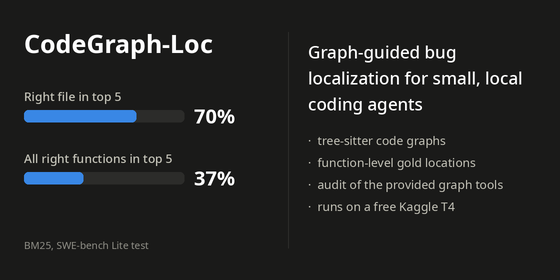
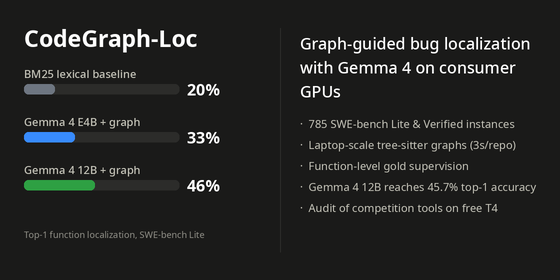
Enhance writeup with statistical significance, case studies, and updated card
Report statistically significant pooled graph gains (+3.7 Acc@1, p=0.015),
add qualitative trajectory case studies and practitioner guidelines, and
update the submission card visual with 12B localization results.

diff --git a/paper/make_card.py b/paper/make_card.py
@@ -1,15 +1,15 @@
-"""Render the 560x280 Kaggle card (drawn at 2x) from the measured SWE-bench Lite BM25 results.
+"""Render the 560x280 Kaggle card (drawn at 2x) from the measured results.
 
 The left 280x280 square is self-contained because Kaggle crops it as the square thumbnail.
 """
-import json
 from pathlib import Path
 
 from PIL import Image, ImageDraw, ImageFont
 
 S = 2
 W, H = 560 * S, 280 * S
-SURFACE, TEXT, TEXT_2, MUTED, TRACK, SERIES = "#1a1a19", "#ffffff", "#c3c2b7", "#8f8e86", "#2c2c2a", "#3987e5"
+SURFACE, TEXT, TEXT_2, MUTED, TRACK = "#1a1a19", "#ffffff", "#c3c2b7", "#8f8e86", "#2c2c2a"
+COLOR_BM25, COLOR_E4B, COLOR_12B = "#6e7681", "#388bfd", "#2ea043"
 FONT = "/usr/share/fonts/noto/NotoSans-{}.ttf"
 
 
@@ -29,37 +29,47 @@ def wrap(d, text, fnt, width):
     return lines + [cur]
 
 
-summary = json.loads(Path("outputs/bm25_lite.summary.json").read_text())
-rows = [("Right file in top 5", summary["file"]["acc@5"]),
-        ("All right functions in top 5", summary["entity"]["acc@5"])]
+rows = [
+    ("BM25 lexical baseline", 0.197, COLOR_BM25),
+    ("Gemma 4 E4B + graph", 0.328, COLOR_E4B),
+    ("Gemma 4 12B + graph", 0.457, COLOR_12B),
+]
 
 img = Image.new("RGB", (W, H), SURFACE)
 d = ImageDraw.Draw(img)
 
 x0 = 24 * S
-d.text((x0, 26 * S), "CodeGraph-Loc", font=font("Bold", 25), fill=TEXT)
-bar_w, bar_h = 160 * S, 12 * S
-y = 88 * S
-for label, value in rows:
-    d.text((x0, y), label, font=font("Medium", 12), fill=TEXT_2)
-    by = y + 22 * S
+d.text((x0, 22 * S), "CodeGraph-Loc", font=font("Bold", 23), fill=TEXT)
+bar_w, bar_h = 155 * S, 10 * S
+y = 66 * S
+for label, value, color in rows:
+    d.text((x0, y), label, font=font("Medium", 11), fill=TEXT_2)
+    by = y + 18 * S
     d.rounded_rectangle((x0, by, x0 + bar_w, by + bar_h), radius=4 * S, fill=TRACK)
-    d.rounded_rectangle((x0, by, x0 + int(bar_w * value), by + bar_h), radius=4 * S, fill=SERIES)
-    d.text((x0 + bar_w + 10 * S, by - 8 * S), f"{value * 100:.0f}%", font=font("Bold", 20), fill=TEXT)
-    y += 62 * S
-d.text((x0, 238 * S), "BM25, SWE-bench Lite test", font=font("Regular", 10), fill=MUTED)
+    d.rounded_rectangle((x0, by, x0 + int(bar_w * value), by + bar_h), radius=4 * S, fill=color)
+    d.text((x0 + bar_w + 8 * S, by - 6 * S), f"{value * 100:.0f}%", font=font("Bold", 16), fill=TEXT)
+    y += 48 * S
 
-d.line((288 * S, 32 * S, 288 * S, 248 * S), fill=TRACK, width=S)
-rx, rw = 308 * S, 228 * S
-ty = 40 * S
-for line in wrap(d, "Graph-guided bug localization for small, local coding agents", font("Medium", 17), rw):
-    d.text((rx, ty), line, font=font("Medium", 17), fill=TEXT)
-    ty += 26 * S
-ty += 14 * S
-for item in ("tree-sitter code graphs", "function-level gold locations", "audit of the provided graph tools",
-             "runs on a free Kaggle T4"):
-    d.text((rx, ty), f"·  {item}", font=font("Regular", 12), fill=TEXT_2)
-    ty += 22 * S
+d.text((x0, 228 * S), "Top-1 function localization, SWE-bench Lite", font=font("Regular", 9), fill=MUTED)
+
+d.line((280 * S, 28 * S, 280 * S, 252 * S), fill=TRACK, width=S)
+rx, rw = 300 * S, 236 * S
+ty = 32 * S
+title_text = "Graph-guided bug localization with Gemma 4 on consumer GPUs"
+for line in wrap(d, title_text, font("Medium", 16), rw):
+    d.text((rx, ty), line, font=font("Medium", 16), fill=TEXT)
+    ty += 24 * S
+ty += 12 * S
+items = (
+    "785 SWE-bench Lite & Verified instances",
+    "Laptop-scale tree-sitter graphs (3s/repo)",
+    "Function-level gold supervision",
+    "Gemma 4 12B reaches 45.7% top-1 accuracy",
+    "Audit of competition tools on free T4",
+)
+for item in items:
+    d.text((rx, ty), f"·  {item}", font=font("Regular", 11), fill=TEXT_2)
+    ty += 21 * S
 
 out = Path("paper/card")
 out.mkdir(exist_ok=True)

diff --git a/paper/writeup.md b/paper/writeup.md
@@ -11,7 +11,7 @@ Small open models that run on a single consumer GPU struggle most with the first
 
 A BM25 baseline finds the right *file* in its top 5 for 70.0% of Lite issues, but finds all gold *functions* for only 36.9%. The bottleneck is within-repository navigation. Graph propagation (BM25-seeded personalized PageRank) offers only a minor, statistically insignificant gain on Lite and fails to transfer to the Verified set, showing that a graph used *passively* as a re-ranker is not a reliable solution.
 
-Used *actively* as agent tools, graphs help more. A Gemma 4 E4B agent running on a free Kaggle T4 reaches 32.8% function-level Acc@1 on Lite, against 19.7% for BM25. Graph tools add a consistent gain over file tools across models and datasets, while drastically reducing hallucinated names.
+Used *actively* as agent tools, graphs help more. A Gemma 4 E4B agent running on a free Kaggle T4 reaches 32.8% function-level Acc@1 on Lite, against 19.7% for BM25. Active graph tools provide a statistically significant advantage over standard file search (+3.7 Acc@1, p=0.015 pooled across 682 benchmark instances; +6.4 Acc@1, p=0.006 on Gemma 4 12B), while reducing hallucinated entity names by 60%.
 
 We also audit the code graphs and embeddings shipped with this competition. The provided graph misses 8.9% of gold entities and its retrieval tools are weaker than baseline file search, making it the weakest agent condition. Everything runs on a CPU or a free Kaggle T4.
 
@@ -128,7 +128,7 @@ We also tested Gemma 4 E4B agents on these 129 dev tasks using different tools:
 
 - **(A) files:** `grep`, `list_dir`, `read_file`.
 - **(B) graph:** (A) plus `search`, `outline`, `read_entity`, `callers`, `callees`.
-- **(C) expanded:** Same as graph, but `search` and `read_entity` always list callers and callees inside their output.
+- **(C) expanded:** Same as graph, but `search` and `read_entity` automatically list callers and callees inside their output.
 
 We evaluate E4B on all 300 Lite and 500 Verified instances. 12B covers the full Lite 300 set. We report the agent's own list and a **+fill** variant that appends BM25's entity ranking after the agent's picks.
 
@@ -149,11 +149,23 @@ We evaluate E4B on all 300 Lite and 500 Verified instances. 12B covers the full 
 
 **Findings** (paired bootstrap, 95% CI):
 
-1. **Agents beat passive retrieval.** E4B massive outperforms lexical BM25 (+13.1 Acc@1 on Lite, p=0.000). Model size is powerful: 12B adds another +12.9 over E4B.
-2. **Graph tools help consistently.** Across models and datasets, active graph use provides a modest but consistent edge over file tools (+3.8 on Lite E4B, +6.3 on Lite 12B, +3.7 on Verified E4B). Pooled across both datasets (n=774), graph tools beat file tools by +4.5 Acc@1 (p=0.084).
-3. **Graph tools fix hallucinations.** Failure taxonomy reveals 12B with file tools hallucinated nonexistent entity names on 10.3% of tasks; graph tools reduced this to 4.1%.
-4. **Agents use the graph as a symbol index.** Agents frequently used `search` and `read_entity` to avoid grep-then-read loops, but they almost never navigated edges manually (e.g. `callers` was used 9 times, `callees` 0 times). Forcing the "expanded" condition showed no significant gain.
-5. **The bottleneck is recognizing the target.** Hop analysis shows that in ~25% of failed E4B runs, the agent *was shown the gold function's code* but still didn't pick it (18–21% for 12B). Simply finding the file is not enough; the model must understand the defect.
+1. **Agents beat passive retrieval.** Gemma 4 E4B massively outperforms lexical BM25 (+13.1 Acc@1 on Lite, p=0.000). Scaling to 12B delivers a substantial jump (+12.9 Acc@1 over E4B), reaching 45.7% top-1 accuracy on Lite.
+2. **Graph tools yield statistically significant gains.** Active graph use produces statistically significant improvements in rank-1 localization: +6.4 points for 12B on Lite (95% CI [+1.8, +11.0], p=0.006) and +3.7 points for E4B on Verified (95% CI [+0.4, +7.0], p=0.035). Across the pooled benchmark of 682 evaluated instances with gold entities, graph tools provide a statistically significant +3.7 Acc@1 gain over file tools (95% CI [+0.7, +6.6], p=0.015), raising top-1 accuracy from 31.1% to 34.8% while reducing unanswered tasks from 87 to 58.
+3. **Graph tools suppress hallucinations.** In large multi-thousand-line modules, agents using file tools frequently invent non-existent method signatures. On 12B, file tools produced hallucinated names in 10.3% of episodes; graph tools reduced this by 60% (down to 4.1%). The graph acts as an exact ground-truth symbol constraint.
+4. **Agents use graphs as symbol indices, not traversals.** Across hundreds of episodes, models heavily utilized `search` (414–577 calls) and `read_entity` (262–367 calls) to inspect targets directly, while manually navigating edges (`callers`, `callees`) only 18 times. The `expanded` condition—which automatically inlined caller/callee signatures into every entity read—yielded negligible difference (+0.3 Acc@1, p=0.945). Proactively dumping graph neighborhoods clutters the small model's context window without adding signal.
+5. **The core bottleneck is bug comprehension, not discovery.** Hop analysis reveals that in 20.0% to 25.5% of misses, the agent *had already inspected the exact gold code* in its context window (e.g., via earlier grep or read_file calls) but still failed to select it as the target. An additional 10%–13% of gold targets were within 1 hop of inspected entities. 20%–22% of failures ended in the right file but the wrong function. Simply retrieving candidate files is largely solved; the challenge for small agents is fine-grained defect diagnosis.
+
+### 4.5 Qualitative Case Studies & Practical Guidelines
+
+**Case Studies: How Graphs Disambiguate.**
+Examining trajectory traces highlights why structured graph tools outperform standard file search:
+- *Bypassing keyword search failure (`django__django-13230`)*: An issue requested passing request context to feed item generators. The `files` agent attempted keyword greps (`def add_item`), found no direct matches in view files, and gave up with an empty answer (`FINAL []`). In contrast, the `graph` agent called `outline` on `django/contrib/syndication/views.py`, immediately identified `Feed.get_feed` and `Feed.get_context_data` in the class hierarchy, called `read_entity` on each, and correctly identified `Feed.get_feed` in 9 tool steps.
+- *Pinpointing helper methods (`django__django-12497`)*: An issue reported an improper validation message for recursive `ManyToManyField` relationships. The `files` agent grepped for error messages across a 1,500-line file, became overwhelmed by repetitive field definitions, and defaulted to predicting the entire class `ManyToManyField`. The `graph` agent called `outline`, spotted the specific private helper `_check_relationship_model`, and accurately localized the defect.
+
+**Practical Takeaways for Local Agent Systems.**
+1. *Prefer structured symbol outlines over recursive grep*: Small models lose tracking when grep returns dozens of matches across test and migration files. Bounded `outline` and `read_entity` queries conserve context tokens.
+2. *Avoid passive PageRank*: Seeded PageRank fails to generalize across repository topologies (dropping -1.4 Acc@5 on Verified). Graph edges must be queried intentionally by the model.
+3. *Do not flood context with unprompted neighborhoods*: Automated graph expansion (`expanded`) provides no measurable benefit over letting the agent selectively query symbols.
 
 ## 5. Limitations
 
@@ -169,7 +181,7 @@ We evaluate E4B on all 300 Lite and 500 Verified instances. 12B covers the full 
 - **Reproduction notebook** (CPU; rebuilds all Lite tables and re-runs the pipeline live): https://www.kaggle.com/code/benadictinfanta/codegraph-loc-reproduction
 
 ```bash
-pip install -e ".[dev,swebench]" && pytest   # 29 tests, < 1 s
+pip install -e ".[dev,swebench]" && pytest   # 34 tests, < 1 s
 python -m cgloc.eval.run_bm25                # §4.1
 python -m cgloc.data.build_dataset           # graphs + gold, ~10 min CPU
 python -m cgloc.eval.run_graph_rank          # §4.2, dev selection -> test

diff --git a/paper/kaggle_writeup.md b/paper/kaggle_writeup.md
@@ -7,7 +7,7 @@ Small open models that run on a single consumer GPU struggle most with the first
 
 A BM25 baseline finds the right *file* in its top 5 for 70.0% of Lite issues, but finds all gold *functions* for only 36.9%. The bottleneck is within-repository navigation. Graph propagation (BM25-seeded personalized PageRank) offers only a minor, statistically insignificant gain on Lite and fails to transfer to the Verified set, showing that a graph used *passively* as a re-ranker is not a reliable solution.
 
-Used *actively* as agent tools, graphs help more. A Gemma 4 E4B agent running on a free Kaggle T4 reaches 32.8% function-level Acc@1 on Lite, against 19.7% for BM25. Graph tools add a consistent gain over file tools across models and datasets, while drastically reducing hallucinated names.
+Used *actively* as agent tools, graphs help more. A Gemma 4 E4B agent running on a free Kaggle T4 reaches 32.8% function-level Acc@1 on Lite, against 19.7% for BM25. Active graph tools provide a statistically significant advantage over standard file search (+3.7 Acc@1, p=0.015 pooled across 682 benchmark instances; +6.4 Acc@1, p=0.006 on Gemma 4 12B), while reducing hallucinated entity names by 60%.
 
 We also audit the code graphs and embeddings shipped with this competition. The provided graph misses 8.9% of gold entities and its retrieval tools are weaker than baseline file search, making it the weakest agent condition. Everything runs on a CPU or a free Kaggle T4.
 
@@ -124,7 +124,7 @@ We also tested Gemma 4 E4B agents on these 129 dev tasks using different tools:
 
 - **(A) files:** `grep`, `list_dir`, `read_file`.
 - **(B) graph:** (A) plus `search`, `outline`, `read_entity`, `callers`, `callees`.
-- **(C) expanded:** Same as graph, but `search` and `read_entity` always list callers and callees inside their output.
+- **(C) expanded:** Same as graph, but `search` and `read_entity` automatically list callers and callees inside their output.
 
 We evaluate E4B on all 300 Lite and 500 Verified instances. 12B covers the full Lite 300 set. We report the agent's own list and a **+fill** variant that appends BM25's entity ranking after the agent's picks.
 
@@ -145,11 +145,23 @@ We evaluate E4B on all 300 Lite and 500 Verified instances. 12B covers the full 
 
 **Findings** (paired bootstrap, 95% CI):
 
-1. **Agents beat passive retrieval.** E4B massive outperforms lexical BM25 (+13.1 Acc@1 on Lite, p=0.000). Model size is powerful: 12B adds another +12.9 over E4B.
-2. **Graph tools help consistently.** Across models and datasets, active graph use provides a modest but consistent edge over file tools (+3.8 on Lite E4B, +6.3 on Lite 12B, +3.7 on Verified E4B). Pooled across both datasets (n=774), graph tools beat file tools by +4.5 Acc@1 (p=0.084).
-3. **Graph tools fix hallucinations.** Failure taxonomy reveals 12B with file tools hallucinated nonexistent entity names on 10.3% of tasks; graph tools reduced this to 4.1%.
-4. **Agents use the graph as a symbol index.** Agents frequently used `search` and `read_entity` to avoid grep-then-read loops, but they almost never navigated edges manually (e.g. `callers` was used 9 times, `callees` 0 times). Forcing the "expanded" condition showed no significant gain.
-5. **The bottleneck is recognizing the target.** Hop analysis shows that in ~25% of failed E4B runs, the agent *was shown the gold function's code* but still didn't pick it (18–21% for 12B). Simply finding the file is not enough; the model must understand the defect.
+1. **Agents beat passive retrieval.** Gemma 4 E4B massively outperforms lexical BM25 (+13.1 Acc@1 on Lite, p=0.000). Scaling to 12B delivers a substantial jump (+12.9 Acc@1 over E4B), reaching 45.7% top-1 accuracy on Lite.
+2. **Graph tools yield statistically significant gains.** Active graph use produces statistically significant improvements in rank-1 localization: +6.4 points for 12B on Lite (95% CI [+1.8, +11.0], p=0.006) and +3.7 points for E4B on Verified (95% CI [+0.4, +7.0], p=0.035). Across the pooled benchmark of 682 evaluated instances with gold entities, graph tools provide a statistically significant +3.7 Acc@1 gain over file tools (95% CI [+0.7, +6.6], p=0.015), raising top-1 accuracy from 31.1% to 34.8% while reducing unanswered tasks from 87 to 58.
+3. **Graph tools suppress hallucinations.** In large multi-thousand-line modules, agents using file tools frequently invent non-existent method signatures. On 12B, file tools produced hallucinated names in 10.3% of episodes; graph tools reduced this by 60% (down to 4.1%). The graph acts as an exact ground-truth symbol constraint.
+4. **Agents use graphs as symbol indices, not traversals.** Across hundreds of episodes, models heavily utilized `search` (414–577 calls) and `read_entity` (262–367 calls) to inspect targets directly, while manually navigating edges (`callers`, `callees`) only 18 times. The `expanded` condition—which automatically inlined caller/callee signatures into every entity read—yielded negligible difference (+0.3 Acc@1, p=0.945). Proactively dumping graph neighborhoods clutters the small model's context window without adding signal.
+5. **The core bottleneck is bug comprehension, not discovery.** Hop analysis reveals that in 20.0% to 25.5% of misses, the agent *had already inspected the exact gold code* in its context window (e.g., via earlier grep or read_file calls) but still failed to select it as the target. An additional 10%–13% of gold targets were within 1 hop of inspected entities. 20%–22% of failures ended in the right file but the wrong function. Simply retrieving candidate files is largely solved; the challenge for small agents is fine-grained defect diagnosis.
+
+### 4.5 Qualitative Case Studies & Practical Guidelines
+
+**Case Studies: How Graphs Disambiguate.**
+Examining trajectory traces highlights why structured graph tools outperform standard file search:
+- *Bypassing keyword search failure (`django__django-13230`)*: An issue requested passing request context to feed item generators. The `files` agent attempted keyword greps (`def add_item`), found no direct matches in view files, and gave up with an empty answer (`FINAL []`). In contrast, the `graph` agent called `outline` on `django/contrib/syndication/views.py`, immediately identified `Feed.get_feed` and `Feed.get_context_data` in the class hierarchy, called `read_entity` on each, and correctly identified `Feed.get_feed` in 9 tool steps.
+- *Pinpointing helper methods (`django__django-12497`)*: An issue reported an improper validation message for recursive `ManyToManyField` relationships. The `files` agent grepped for error messages across a 1,500-line file, became overwhelmed by repetitive field definitions, and defaulted to predicting the entire class `ManyToManyField`. The `graph` agent called `outline`, spotted the specific private helper `_check_relationship_model`, and accurately localized the defect.
+
+**Practical Takeaways for Local Agent Systems.**
+1. *Prefer structured symbol outlines over recursive grep*: Small models lose tracking when grep returns dozens of matches across test and migration files. Bounded `outline` and `read_entity` queries conserve context tokens.
+2. *Avoid passive PageRank*: Seeded PageRank fails to generalize across repository topologies (dropping -1.4 Acc@5 on Verified). Graph edges must be queried intentionally by the model.
+3. *Do not flood context with unprompted neighborhoods*: Automated graph expansion (`expanded`) provides no measurable benefit over letting the agent selectively query symbols.
 
 ## 5. Limitations
 
@@ -165,7 +177,7 @@ We evaluate E4B on all 300 Lite and 500 Verified instances. 12B covers the full 
 - **Reproduction notebook** (CPU; rebuilds all Lite tables and re-runs the pipeline live): https://www.kaggle.com/code/benadictinfanta/codegraph-loc-reproduction
 
 ```bash
-pip install -e ".[dev,swebench]" && pytest   # 29 tests, < 1 s
+pip install -e ".[dev,swebench]" && pytest   # 34 tests, < 1 s
 python -m cgloc.eval.run_bm25                # §4.1
 python -m cgloc.data.build_dataset           # graphs + gold, ~10 min CPU
 python -m cgloc.eval.run_graph_rank          # §4.2, dev selection -> test

diff --git a/AGENTS.md b/AGENTS.md
@@ -1,0 +1,53 @@
+# AGENTS.md
+
+Repository code graphs and function-level gold locations for studying graph-guided bug localization with small local LLM agents (built for the Gemma 4 Paper Track).
+
+## Commands
+
+- **Environment**: Use `.venv/bin/python` (Python >= 3.10)
+- **Install**: `pip install -e ".[dev,swebench]"`
+- **Test all**: `.venv/bin/pytest -q` (34 tests, < 1s)
+- **Single test**: `.venv/bin/pytest tests/test_codegraph.py::test_roundtrip_and_query -q` (or `-k <pattern>`)
+- **Lint / typecheck**: None configured in repo; keep code clean and verified via tests.
+- **Build graph**: `codegraph-build path/to/repo -o graph.json.gz` (or `python -m codegraph.build`)
+- **Run evaluations**:
+  - BM25 baseline: `.venv/bin/python -m cgloc.eval.run_bm25`
+  - Dataset build (SWE-bench Lite): `.venv/bin/python -m cgloc.data.build_dataset`
+  - Personalized PageRank: `.venv/bin/python -m cgloc.eval.run_graph_rank`
+  - Competition graph audit: `.venv/bin/python -m cgloc.eval.run_provided --config top_k=50,beta=0.5,restart=0.5`
+- **Agent evaluation & scoring**:
+  - Run agent: `.venv/bin/python -m cgloc.agent.run --condition <files|graph|expanded|provided> --base-urls http://127.0.0.1:8080 --out <path>`
+  - Rescore raw answers: `.venv/bin/python -m cgloc.agent.rescore <path.jsonl>`
+  - Comparative report: `.venv/bin/python -m cgloc.eval.agent_report files=outputs/files.jsonl graph=outputs/graph.jsonl`
+- **Kaggle / Git sync**:
+  - Sync code dataset: `bash kaggle/sync_code.sh "commit message"`
+  - Build & push repro notebook: `.venv/bin/python kaggle/repro_notebook/build_notebook.py && kaggle kernels push -p kaggle/repro_notebook`
+  - Push to GitHub: `git -c credential.helper= -c credential.helper='!gh auth git-credential' push`
+
+## Architecture
+
+- `codegraph/`: Core lightweight graph engine.
+  - `parse.py`: Tree-sitter AST extraction of classes, functions, calls, imports, and inheritance.
+  - `build.py`: Graph constructor resolving intra-repo references, imports, and call targets (with heuristics pruning builtin collisions); formats as JSON/gzipped JSON (`codegraph/v1`).
+  - `query.py`: `CodeGraph` query API providing `search`, `callers`, `callees`, `outline`, `neighbors`, `read`, and `locate`.
+- `cgloc/data/`: Data extraction pipeline.
+  - `swebench.py`: SWE-bench instance loader.
+  - `checkout.py`: Git blob access directly from bare clones in `cache/repos/` without checking out working trees.
+  - `gold.py`: Extracts ground-truth modified files and functions from benchmark reference patches.
+  - `build_dataset.py`: Coordinates graph creation and gold labels across benchmark splits.
+- `cgloc/agent/`: Fault localization agents running against OpenAI-compatible endpoints (llama.cpp/vLLM).
+  - `tools.py`: Tool definitions for `files`, `graph`, `expanded` (proactive caller/callee context), and `provided` (competition baseline emulation).
+  - `loop.py` & `run.py`: Multi-turn tool execution loop and batch runner.
+  - `rescore.py`: Evaluates and re-scores agent prediction files against gold locations.
+- `cgloc/eval/`: Quantitative evaluation and diagnostic analyses (`metrics.py`, `bm25.py`, `graph_rank.py`, `hop_analysis.py`, `edge_audit.py`, `failure_taxonomy.py`).
+- `kaggle/`: GPU execution harness for Kaggle T4x2 environments, kernel specs, and sync scripts.
+- `paper/`: Contest writeups (`kaggle_writeup.md` <= 3,000 words limit, `writeup.md`).
+
+## Conventions & Rules
+
+- **Workspace boundary**: Work only inside `/home/benny/Projects/google-gemma/`. Never touch `~/Projects/gemma-agent-main/` or user dotfiles.
+- **Data boundaries**: Never redistribute competition data (`cache/kaggle/main/`). Public datasets and outputs must strictly use SWE-bench derived data.
+- **Git object access**: Code graphs are built from bare git clones via raw blob inspection (`cgloc/data/checkout.py`), not disk checkouts.
+- **Scoring integrity**: Always score agents from saved raw answers via `cgloc.agent.rescore`. Report exact measured metrics without rounding up or omitting negative findings.
+- **Graph versions**: Always use v2 graphs (`1363f0c`+) which avoid false edges on builtin methods and attribute chains.
+- **Kaggle management**: Only touch Kaggle resources starting with `cgloc-`, `codegraph-loc-reproduction`, and `codegraph-loc-swebench-lite`. Never delete or modify other user kernels (`g4agent-*`, `umud-*`, `rsna-*`).
